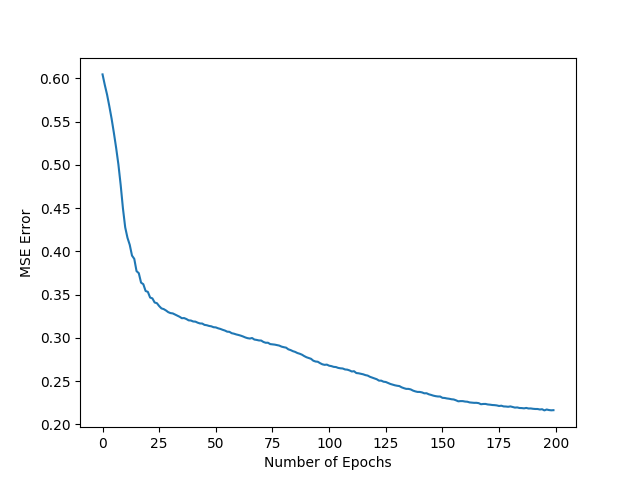
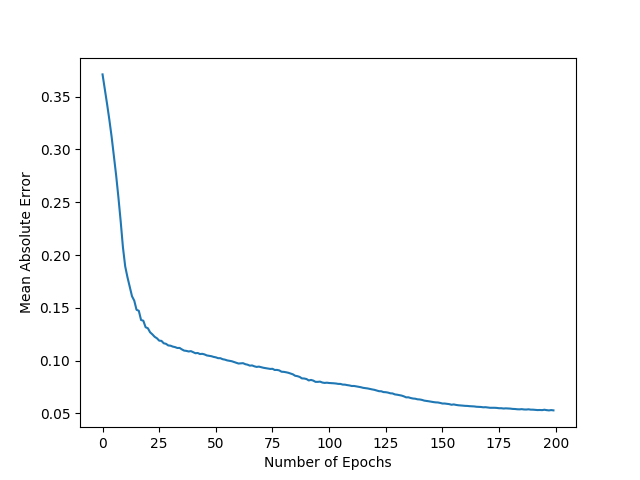
Explainable RBM: Adjust evaluation metric and re-run the model

diff --git a/Boltzmann-Machines-Experiments/Explainable-RBM-CF-TensorFlow/main.py b/Boltzmann-Machines-Experiments/Explainable-RBM-CF-TensorFlow/main.py
@@ -101,9 +101,9 @@ def rbm(movies_df):
     update_vb = vb + alpha * tf.reduce_mean(v0 - v1, 0)
     update_hb = hb + alpha * tf.reduce_mean(h0 - h1, 0)
 
-    # Set error function (RMSE)
+    # Set error function (MAE)
     err = v0 - v1
-    err_sum = tf.sqrt(tf.reduce_mean(err * err))
+    err_sum = tf.reduce_mean(tf.abs(err))
 
     # Initialize variables
     cur_w = np.zeros([visibleUnits, hiddenUnits], np.float32)  # Current weight
@@ -123,7 +123,7 @@ v0, W, vb, hb, update_w, prv_w, prv_vb, prv_hb, update_vb, update_hb, cur_w, cur
 sess = tf.Session()
 sess.run(tf.global_variables_initializer())
 
-# Train RBM with 200 epochs and 10 batches of size 512
+# Train RBM with 200 epochs and batches of size 512
 epochs = 200
 batch_size = 512
 errors = []
@@ -139,7 +139,13 @@ for i in range(epochs):
         prv_vb = cur_vb
         prv_hb = cur_hb
     errors.append(sess.run(err_sum, feed_dict={v0: trX, W: cur_w, vb: cur_vb, hb: cur_hb}))
-    print("Current RMSE error: ", errors[-1])
+    print("Current MAE error: ", errors[-1])
+
+# Plot errors with respect to number of epochs
+plt.plot(errors)
+plt.ylabel('Mean Absolute Error')
+plt.xlabel('Number of Epochs')
+plt.savefig('pics/result.png')
 
 # We can now predict movies that an arbitrarily selected user might like by feeding in the user's watched movie
 # preferences into the RBM and then reconstructing the input.

diff --git a/Boltzmann-Machines-Experiments/RBM-CF-PyTorch/README.md b/Boltzmann-Machines-Experiments/RBM-CF-PyTorch/README.md
@@ -2,7 +2,7 @@
 
 This is my PyTorch implementation of the paper [Restricted Boltzmann Machines for Collaborative Filtering](https://www.cs.toronto.edu/~rsalakhu/papers/rbmcf.pdf) by Ruslan Salakhutdinov, Andriy Mnih, and Geoffrey Hinton (2007). In particular, I trained the RBM model with contrastive divergence on the public Movielens-1M dataset.
 
-<img src="https://github.com/khanhnamle1994/transfer-rec/blob/master/Boltzmann-Machines-Experiments/RBM-CF-PyTorch/pics/RBM-Fig.png" width="600">
+<img src="https://github.com/khanhnamle1994/transfer-rec/blob/master/Boltzmann-Machines-Experiments/RBM-CF-PyTorch/pics/RBM-Fig.png" width="400">
 
 ## Requirements
 ```
@@ -16,10 +16,10 @@ Matplotlib
 You can download the MovieLens-1M dataset from [this folder](https://github.com/khanhnamle1994/transfer-rec/tree/master/ml-1m).
 
 ## Scripts
-* [rbm.py](https://github.com/khanhnamle1994/transfer-rec/blob/master/RBM-CF-PyTorch/rbm.py): This is the model script that defines the Restricted Boltzmann Machines model.
-* [train.py](https://github.com/khanhnamle1994/transfer-rec/blob/master/RBM-CF-PyTorch/train.py): This is the main training script. You can simply run `python train.py` to execute it.
+* [rbm.py](https://github.com/khanhnamle1994/transfer-rec/blob/master/Boltzmann-Machines-Experiments/RBM-CF-PyTorch/rbm.py): This is the model script that defines the Restricted Boltzmann Machines model.
+* [train.py](https://github.com/khanhnamle1994/transfer-rec/blob/master/Boltzmann-Machines-Experiments/RBM-CF-PyTorch/train.py): This is the main training script. You can simply run `python train.py` to execute it.
 
 ## Results
-I obtained a RMSE reconstruction error value of 0.476 after training the model for 200 epochs. The RMSE reconstruction error on the test set is 0.238.
+I obtained a reconstruction MAE (Mean Absolute Error) value of 0.476 after training the model for 200 epochs. The reconstruction MAE on the test set is 0.238.
 
-<img src="https://github.com/khanhnamle1994/transfer-rec/blob/master/Boltzmann-Machines-Experiments/RBM-CF-PyTorch/pics/result.png" width="600">
+<img src="https://github.com/khanhnamle1994/transfer-rec/blob/master/Boltzmann-Machines-Experiments/RBM-CF-PyTorch/pics/result.png" width="500">

diff --git a/Boltzmann-Machines-Experiments/Explainable-RBM-CF-TensorFlow/README.md b/Boltzmann-Machines-Experiments/Explainable-RBM-CF-TensorFlow/README.md
@@ -20,11 +20,11 @@ You can download the MovieLens-1M dataset from [this folder](https://github.com/
 * [main.py](https://github.com/khanhnamle1994/transfer-rec/blob/master/Boltzmann-Machines-Experiments/Explainable-RBM-CF-TensorFlow/main.py): This is the main training script. You can simply run `python main.py` to execute it.
 
 ## Results
-I obtained a RMSE reconstruction error value of 0.216 after training the model for 200 epochs.
+I obtained a reconstruction MAE (Mean Absolute Error) value of 0.053 after training the model for 200 epochs.
 
-<img src="https://github.com/khanhnamle1994/transfer-rec/blob/master/Boltzmann-Machines-Experiments/Explainable-RBM-CF-TensorFlow/pics/result.png" width="600">
+<img src="https://github.com/khanhnamle1994/transfer-rec/blob/master/Boltzmann-Machines-Experiments/Explainable-RBM-CF-TensorFlow/pics/result.png" width="500">
 
 ## Sample Recommendation List
 This is a sample recommendation list for a mock user with explainable scores attached each movie.
 
-<img src="https://github.com/khanhnamle1994/transfer-rec/blob/master/Boltzmann-Machines-Experiments/Explainable-RBM-CF-TensorFlow/pics/Recommendations-Example.png" width="600">
+<img src="https://github.com/khanhnamle1994/transfer-rec/blob/master/Boltzmann-Machines-Experiments/Explainable-RBM-CF-TensorFlow/pics/Recommendations-Example.png" width="1000">
